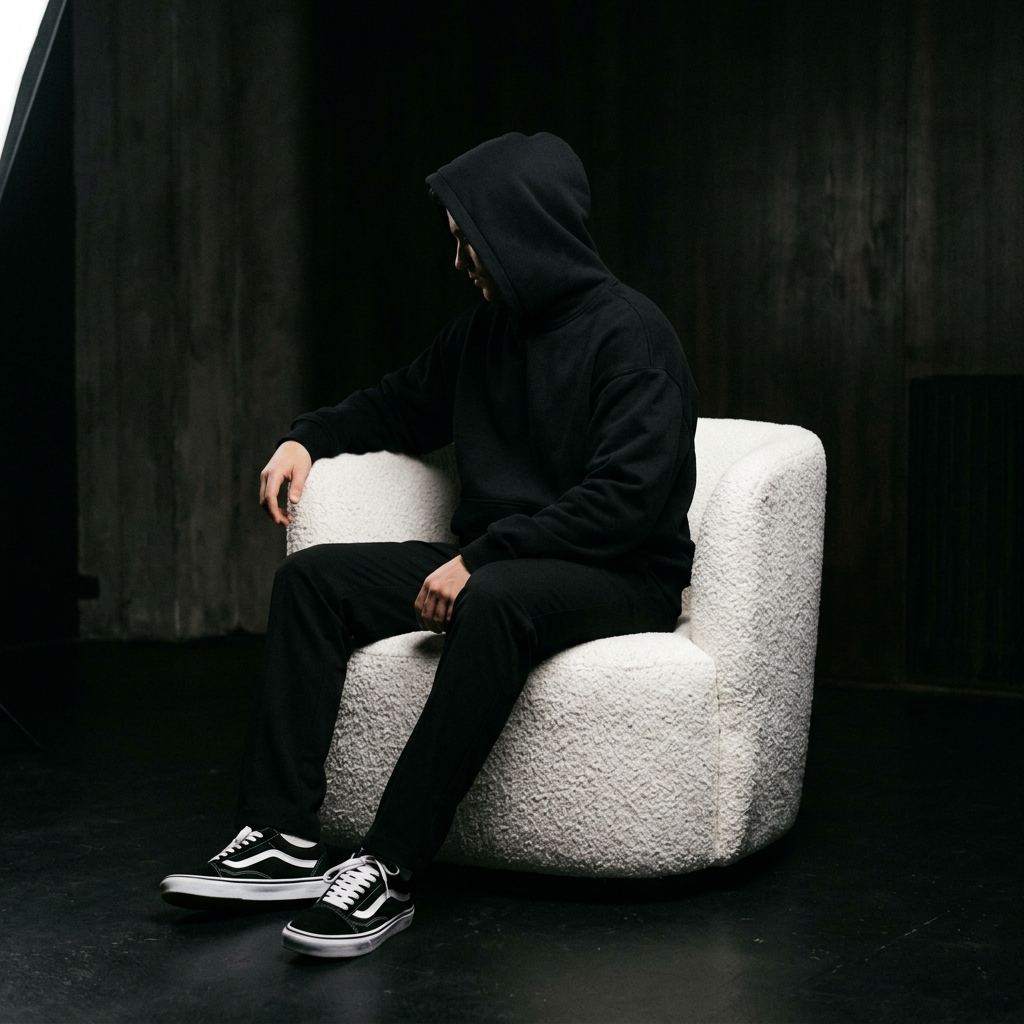
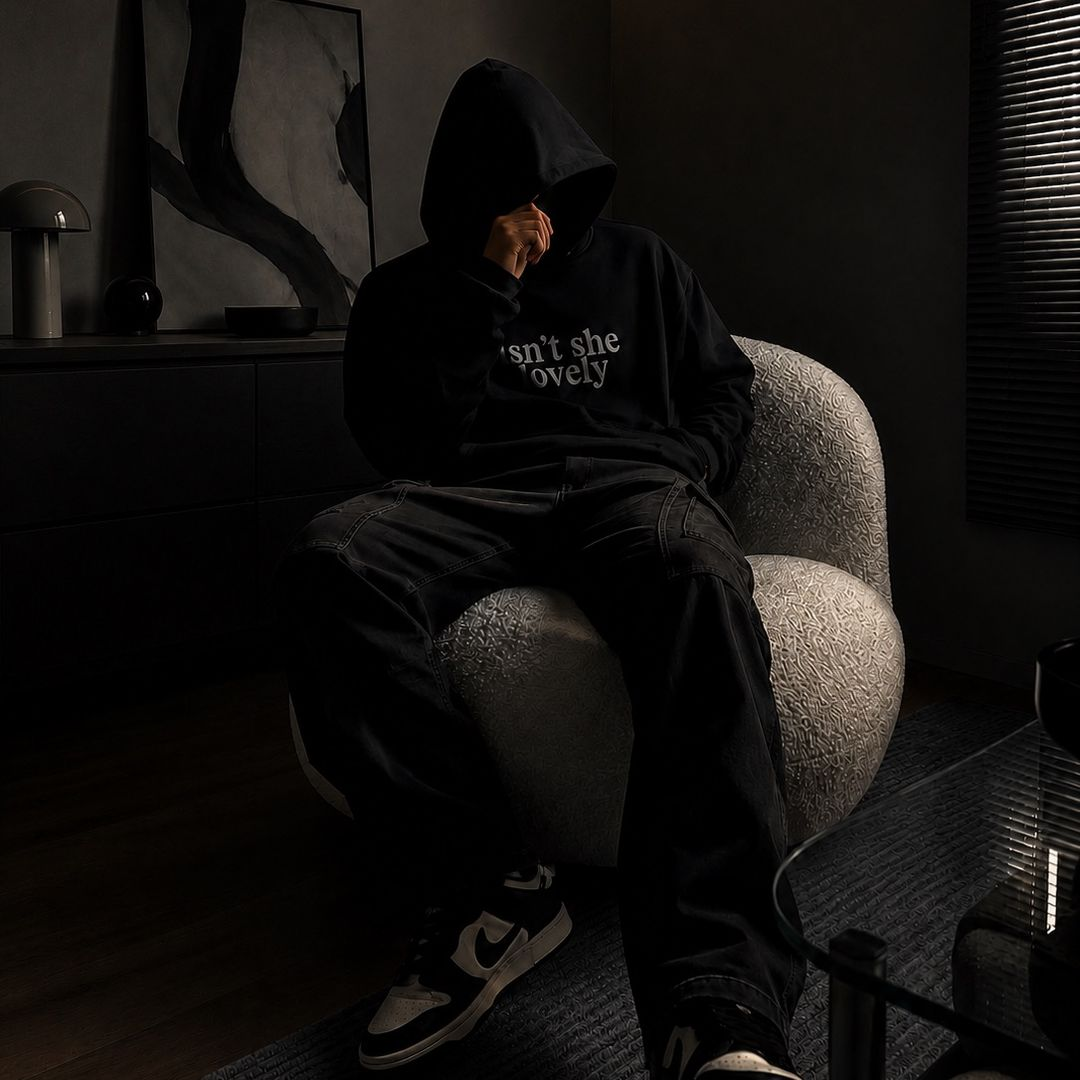
Update profile picture and background image, and ensure readability with dark/light mode overlay

diff --git a/script.js b/script.js
@@ -101,7 +101,7 @@ document.addEventListener('DOMContentLoaded', () => {
         // Background
         const bgLayer = document.getElementById('bg-layer');
         if (data.bgImage) {
-            bgLayer.style.backgroundImage = `url('${data.bgImage}')`;
+            bgLayer.style.backgroundImage = `linear-gradient(var(--bg-overlay), var(--bg-overlay)), url('${data.bgImage}')`;
             bgLayer.style.backgroundSize = 'cover';
             bgLayer.style.backgroundPosition = 'center';
         } else {

diff --git a/style.css b/style.css
@@ -14,6 +14,7 @@
     --shadow: 0 4px 20px rgba(0, 0, 0, 0.4);
     --input-bg: rgba(255, 255, 255, 0.08);
     --bg-gradient: none;
+    --bg-overlay: rgba(0, 0, 0, 0.5);
     --overlay-bg: rgba(0, 0, 0, 0.85);
 }
 
@@ -29,6 +30,7 @@
     --shadow: 0 4px 20px rgba(0, 0, 0, 0.06);
     --input-bg: rgba(0, 0, 0, 0.05);
     --bg-gradient: none;
+    --bg-overlay: rgba(255, 255, 255, 0.5);
     --overlay-bg: rgba(255, 255, 255, 0.85);
 }
 
